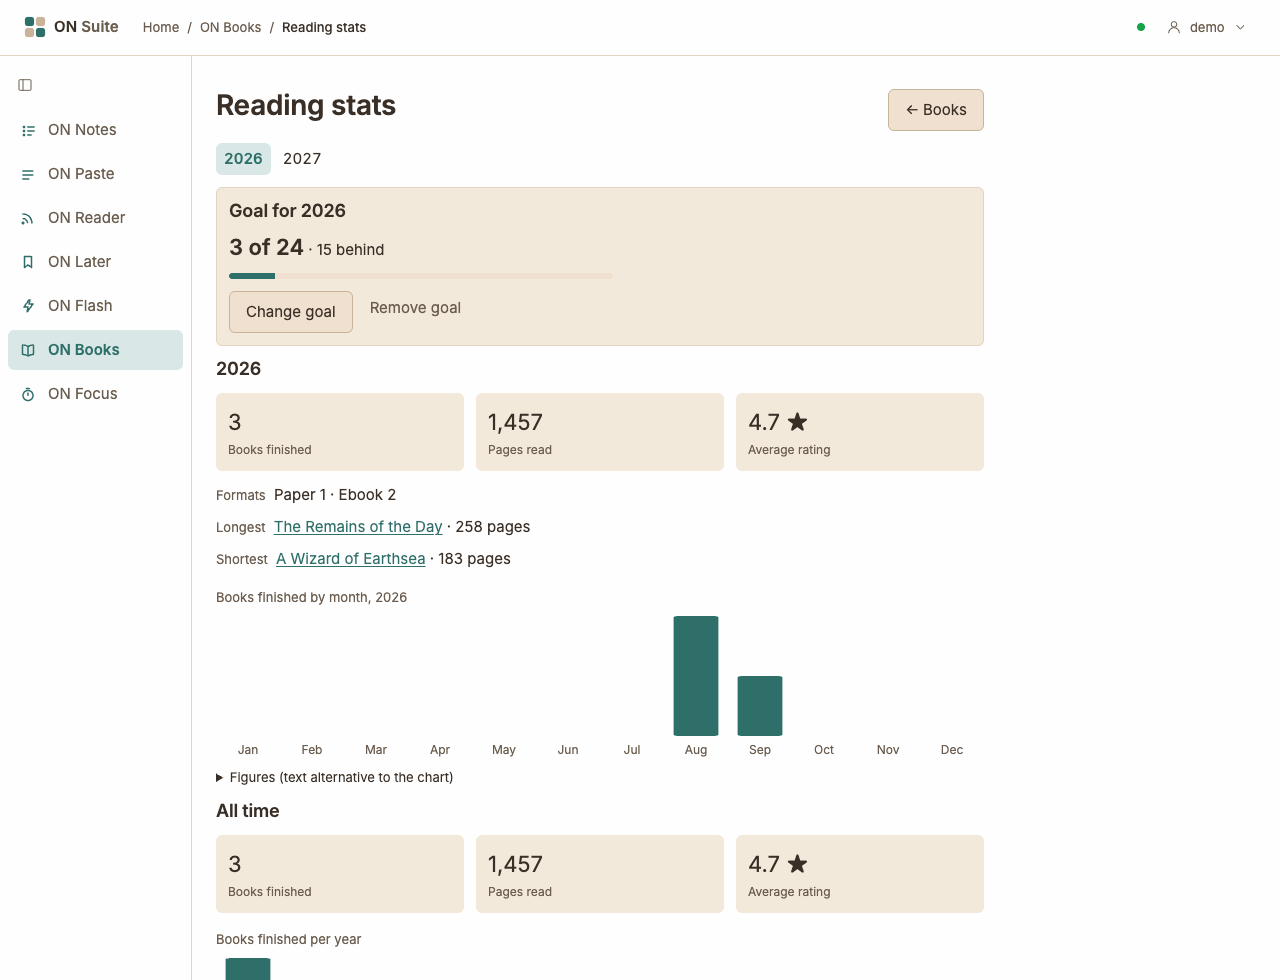
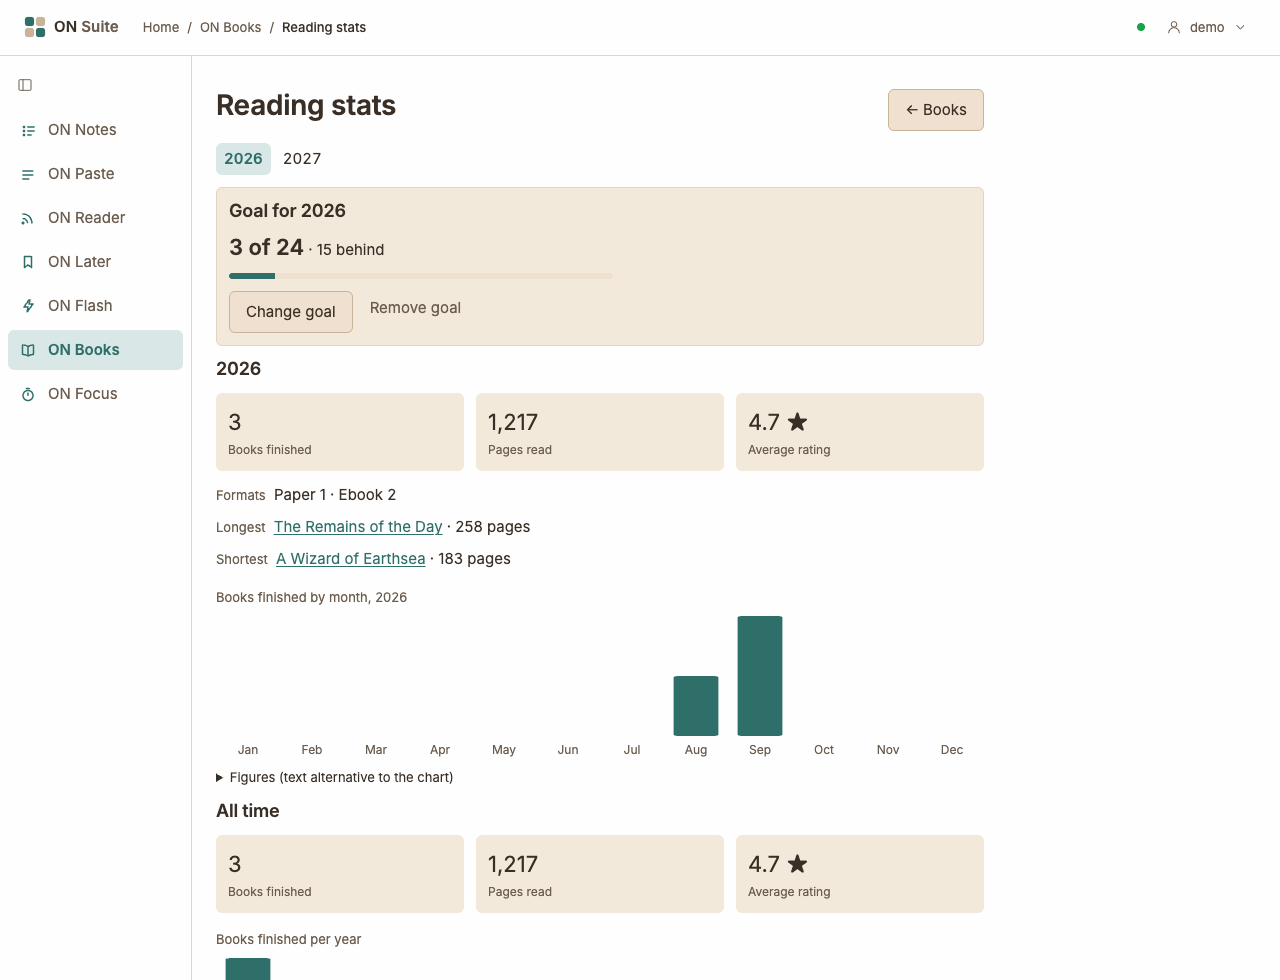
docs(books): retake the Books screenshots with a quote on book 1 (#602)
books-book.png showed an empty Quotes section: book 1, Leviathan Wakes,
had no quotes, and the seed only quotes books long out of copyright. Book
1 is now A Study in Scarlet (1887), with two notes and a quote, and
Caliban's War is The Sign of the Four, so the series still has two books.
The seed test, the shot ids and the guide's series example follow.

books-home.png is 740px high, so the whole sidebar shows (Import from
Goodreads and Export as Markdown were cut off); books-book.png is 1220px,
down to the Reading history; books-home-list.png is 592px, for the extra
tag. books-stats.png and the README's Books shots change with the seed.

Changed region(s): [[0.5, 0.6122, 0.625, 0.7041], [0.375, 0.8571, 0.4375, 0.8878], [0.4062, 0.4286, 0.4375, 0.4592]]

diff --git a/docs/screenshots/seed/books.go b/docs/screenshots/seed/books.go
@@ -11,9 +11,10 @@ import (
 // two books on the go (one on paper, one an audiobook, each with a few
 // days of progress), three waiting, three finished and rated (one with a
 // review) and one put down part-way, with a few tags, two books of a
-// series, notes on two books and quotes from one, and a goal for this
-// year, so each shelf, the book pane, the search and the Stats page have
-// something to show. Quotes come only from a book long out of copyright.
+// series, notes and quotes on two books, and a goal for this year, so each
+// shelf, the book page, the search and the Stats page have something to
+// show. Quotes come only from books long out of copyright, so book 1, the
+// book page's screenshot, is one too (#602).
 // Dates are offsets from now, so nothing is ever in the future.
 func seedBooks(ctx context.Context, st *books.Store, userID int64, now time.Time) error {
 	at := func(daysAgo int) time.Time { return now.AddDate(0, 0, -daysAgo) }
@@ -33,13 +34,17 @@ func seedBooks(ctx context.Context, st *books.Store, userID int64, now time.Time
 		quotes   []books.QuoteInput // likewise
 	}
 	library := []seed{
-		{in: books.BookInput{Title: "Leviathan Wakes", Authors: "James S. A. Corey", Year: 2011, Pages: 592,
-			SeriesName: "The Expanse", SeriesNumber: "1",
-			Description: "A detective and a ship's officer find the same missing woman at the edge of the solar system."},
-			tags: []string{"sf", "space"}, started: 9, format: "paper", progress: []int{48, 120, 205, 260, 344}, finished: -1,
+		{in: books.BookInput{Title: "A Study in Scarlet", Authors: "Arthur Conan Doyle", Year: 1887, Pages: 176,
+			SeriesName: "Sherlock Holmes", SeriesNumber: "1",
+			Description: "Back from Afghanistan, Dr Watson takes rooms at 221B Baker Street with a strange young man, and is soon drawn into a murder in an empty house."},
+			tags: []string{"mystery", "classics"}, started: 9, format: "paper", progress: []int{14, 36, 58, 81, 104}, finished: -1,
 			notes: []books.NoteInput{
-				{Page: 120, Body: "Miller and Holden finally meet. The two voices work better together than apart."},
-				{Page: 260, Body: "The *protomolecule*. Didn't see that coming — the detective story was cover for something much bigger."},
+				{Page: 36, Body: "*Rache* on the wall: German for revenge, says Holmes, not an unfinished Rachel. Lestrade isn't pleased."},
+				{Page: 81, Body: "Part two leaves London for Utah without a word of warning. Strange, until it explains everything."},
+			},
+			quotes: []books.QuoteInput{
+				{Page: 46, Text: "There's the scarlet thread of murder running through the colourless skein of life, and our duty is to unravel it, and isolate it, and expose every inch of it.",
+					Comment: "Where the title comes from."},
 			}},
 		{in: books.BookInput{Title: "Piranesi", Authors: "Susanna Clarke", Year: 2020, Pages: 272},
 			tags: []string{"fantasy"}, started: 3, format: "audio", progress: []int{18, 41}, finished: -1},
@@ -47,8 +52,8 @@ func seedBooks(ctx context.Context, st *books.Store, userID int64, now time.Time
 			Year: 1974, Pages: 387}, tags: []string{"sf", "classics"}, started: -1, finished: -1},
 		{in: books.BookInput{Title: "Project Hail Mary", Authors: "Andy Weir", Year: 2021, Pages: 476},
 			tags: []string{"sf", "space"}, started: -1, finished: -1},
-		{in: books.BookInput{Title: "Caliban's War", Authors: "James S. A. Corey", Year: 2012, Pages: 595,
-			SeriesName: "The Expanse", SeriesNumber: "2"}, tags: []string{"sf", "space"}, started: -1, finished: -1},
+		{in: books.BookInput{Title: "The Sign of the Four", Authors: "Arthur Conan Doyle", Year: 1890, Pages: 160,
+			SeriesName: "Sherlock Holmes", SeriesNumber: "2"}, tags: []string{"mystery", "classics"}, started: -1, finished: -1},
 		{in: books.BookInput{Title: "A Wizard of Earthsea", Authors: "Ursula K. Le Guin", Year: 1968, Pages: 183,
 			SeriesName: "Earthsea", SeriesNumber: "1"}, tags: []string{"fantasy", "classics"},
 			started: 70, format: "ebook", finished: 56, rating: 5,

diff --git a/docs/screenshots/seed/seed_test.go b/docs/screenshots/seed/seed_test.go
@@ -194,27 +194,27 @@ func TestSeedFillsEveryApp(t *testing.T) {
 		}
 	}
 	// ... and notes and quotes the filter finds.
-	for q, want := range map[string]books.MatchIn{"protomolecule": books.MatchNote, "agony": books.MatchQuote} {
+	for q, want := range map[string]books.MatchIn{"rache": books.MatchNote, "agony": books.MatchQuote} {
 		found, err := bst.List(ctx, demo.ID, books.ListQuery{Shelf: books.ShelfAll, Q: q})
 		if err != nil || len(found) != 1 || found[0].Match != want {
 			t.Errorf("books search %q = %+v, %v; want one book matched in a %s", q, found, err, want)
 		}
 	}
-	// ... dated the day the reading reached their page (progress 120 on day
-	// 4 ago, 260 on day 2 ago), with the book's last change the latest.
-	if found, err := bst.List(ctx, demo.ID, books.ListQuery{Shelf: books.ShelfAll, Q: "protomolecule"}); err == nil && len(found) == 1 {
+	// ... dated the day the reading reached their page (progress 36 on day
+	// 4 ago, 81 on day 2 ago), with the book's last change the latest.
+	if found, err := bst.List(ctx, demo.ID, books.ListQuery{Shelf: books.ShelfAll, Q: "rache"}); err == nil && len(found) == 1 {
 		ns, err := bst.Notes(ctx, demo.ID, found[0].ID)
 		if err != nil || len(ns) != 2 {
-			t.Fatalf("Leviathan Wakes notes = %+v, %v; want 2", ns, err)
+			t.Fatalf("A Study in Scarlet notes = %+v, %v; want 2", ns, err)
 		}
 		for _, n := range ns {
-			want := map[int]int{120: 4, 260: 2}[n.Page]
+			want := map[int]int{36: 4, 81: 2}[n.Page]
 			if !n.CreatedAt.Equal(now.AddDate(0, 0, -want)) {
 				t.Errorf("note on p. %d dated %v, want %d days ago", n.Page, n.CreatedAt, want)
 			}
 		}
 		if b, err := bst.Get(ctx, demo.ID, found[0].ID); err != nil || !b.UpdatedAt.Equal(now.AddDate(0, 0, -1)) {
-			t.Errorf("Leviathan Wakes updated_at = %v, %v; want 1 day ago, its last progress", b.UpdatedAt, err)
+			t.Errorf("A Study in Scarlet updated_at = %v, %v; want 1 day ago, its last progress", b.UpdatedAt, err)
 		}
 	}
 
@@ -252,7 +252,7 @@ var shotIDs = map[string]map[int64]string{
 	"flash":  {1: "Japanese travel phrases", 2: "F1 circuits"},
 	"later":  {1: "The case for reading slowly"},
 	"focus":  {1: "Deep work"},
-	"books":  {1: "Leviathan Wakes"},
+	"books":  {1: "A Study in Scarlet"},
 }
 
 // shotIDRe finds the seeded IDs in shots.go URLs: /paste/3, /notes/25,

diff --git a/docs/screenshots/capture/shots.go b/docs/screenshots/capture/shots.go
@@ -121,13 +121,13 @@ var shots = []shot{
 	{Name: "docs/user/images/focus-history.png", URL: "/focus/history", Height: 1000},
 
 	// docs/user/books.md
-	// Book 1 is Leviathan Wakes, on the Reading shelf in the seed. Nothing
+	// Book 1 is A Study in Scarlet, on the Reading shelf in the seed. Nothing
 	// here imports a file or presses Find cover, so no request reaches
 	// Open Library and the library stays as seeded; the list shot puts the
 	// saved view back to grid (booksListView).
-	{Name: "docs/user/images/books-home.png", URL: "/books/?shelf=reading", Height: 640},
-	{Name: "docs/user/images/books-home-list.png", URL: "/books/?shelf=read", Height: 560, Setup: booksListView},
-	{Name: "docs/user/images/books-book.png", URL: "/books/b/1?shelf=reading", Height: 1076},
+	{Name: "docs/user/images/books-home.png", URL: "/books/?shelf=reading", Height: 740},
+	{Name: "docs/user/images/books-home-list.png", URL: "/books/?shelf=read", Height: 592, Setup: booksListView},
+	{Name: "docs/user/images/books-book.png", URL: "/books/b/1?shelf=reading", Height: 1220},
 	{Name: "docs/user/images/books-add.png", URL: "/books/new?shelf=reading", Height: 720},
 	{Name: "docs/user/images/books-stats.png", URL: "/books/stats", Height: 980},
 	{Name: "docs/user/images/books-import.png", URL: "/books/import", Height: 560},

diff --git a/docs/user/books.md b/docs/user/books.md
@@ -190,7 +190,7 @@ few hours. A cover you remove stays removed.
 ## Series
 
 If a book is part of a series, its series and number show under the
-author — "The Expanse #1 · 2 books". Click it to list the series in
+author — "Sherlock Holmes #1 · 2 books". Click it to list the series in
 order. Add a series name and number with ✎ on the book's page.
 
 ## Tags
